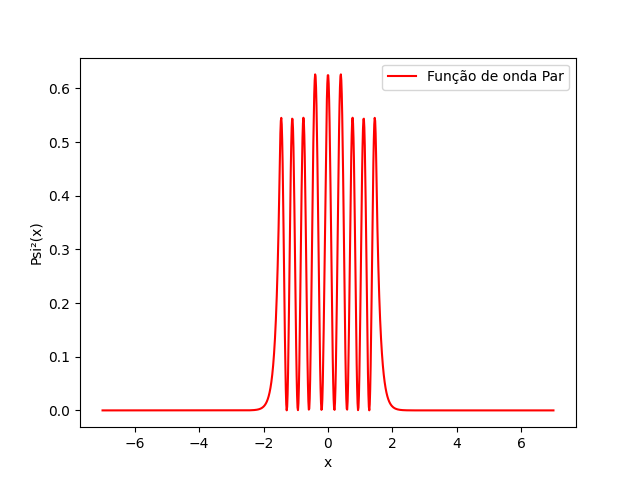
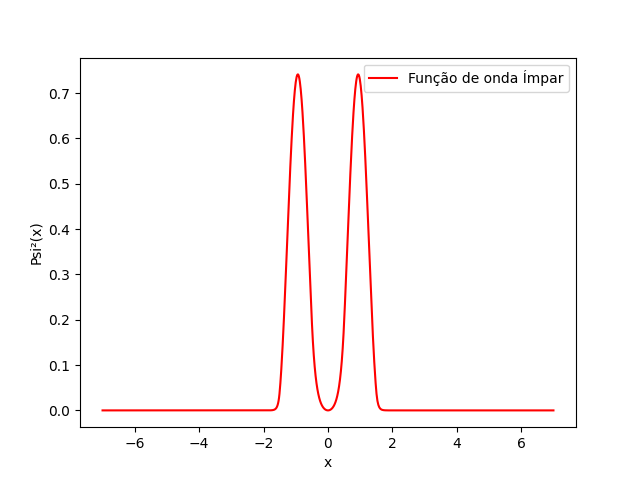
Variáveis redundantes retiradas.

diff --git a/eig_func/eigen_function_even.py b/eig_func/eigen_function_even.py
@@ -10,18 +10,6 @@ from dwell_analytic import *
 config = configparser.ConfigParser()
 config.read('config.ini')
 
-# +-------------------------------+
-# |         Parâmetros            |
-# +-------------------------------+
-
-m = float(config['parametros']['m'])
-h_bar = float(config['parametros']['h_bar'])
-V_B = float(config['potencial']['V_B'])
-V_D = float(config['potencial']['V_D'])
-n = float(config['delta']['n'])
-a = float(config['poco']['a'])
-L = float(config['poco']['L'])
-
 # +--------------------------------+
 # | FUNÇÃO DE ONDA PAR NORMALIZADA |
 # +--------------------------------+
@@ -75,11 +63,10 @@ else:
 # | PLOT DAS FUNÇÕES DE ONDA ÍMPAR |
 # +--------------------------------+
 
-    print('Função de onda Par para n_quantico = ',n_quantico)
+    print('Função de onda Ímpar para n_quantico = ',n_quantico)
 
     t=np.linspace(-7,7,1000)
-    #plt.figure(figsize=(5,8))
-    plt.plot(t, np.array(list(map(psi_n_i, t)))**2,"g-")      #Elevar ao quadrado
+    plt.plot(t, np.array(list(map(psi_n_i, t)))**2,"r-")      #Elevar ao quadrado
     plt.ylabel('Psi²(x)')
     plt.xlabel('x')
     plt.legend(['Função de onda Ímpar'])
